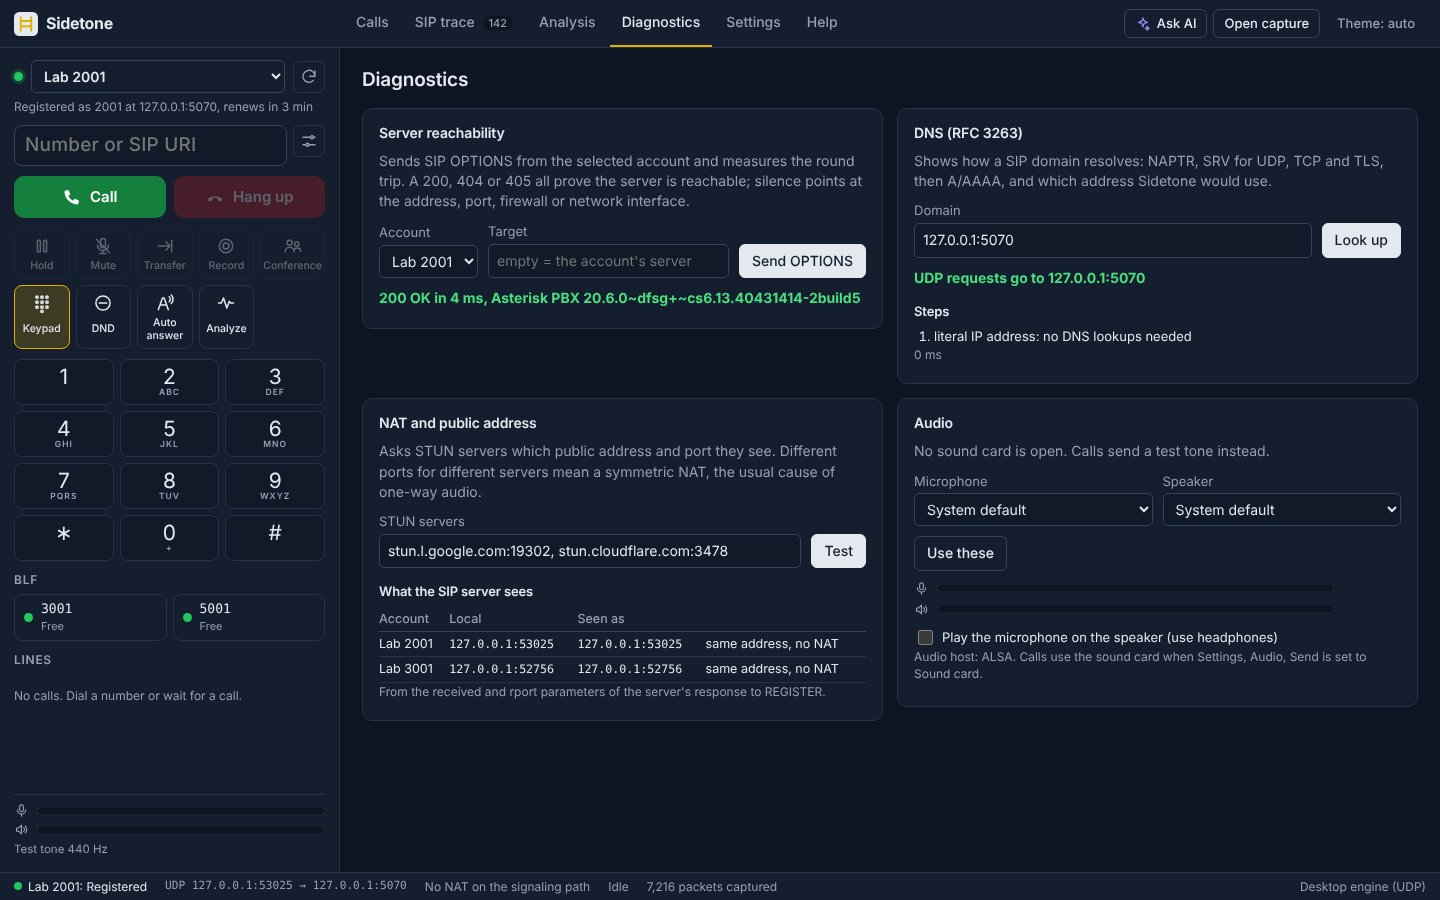
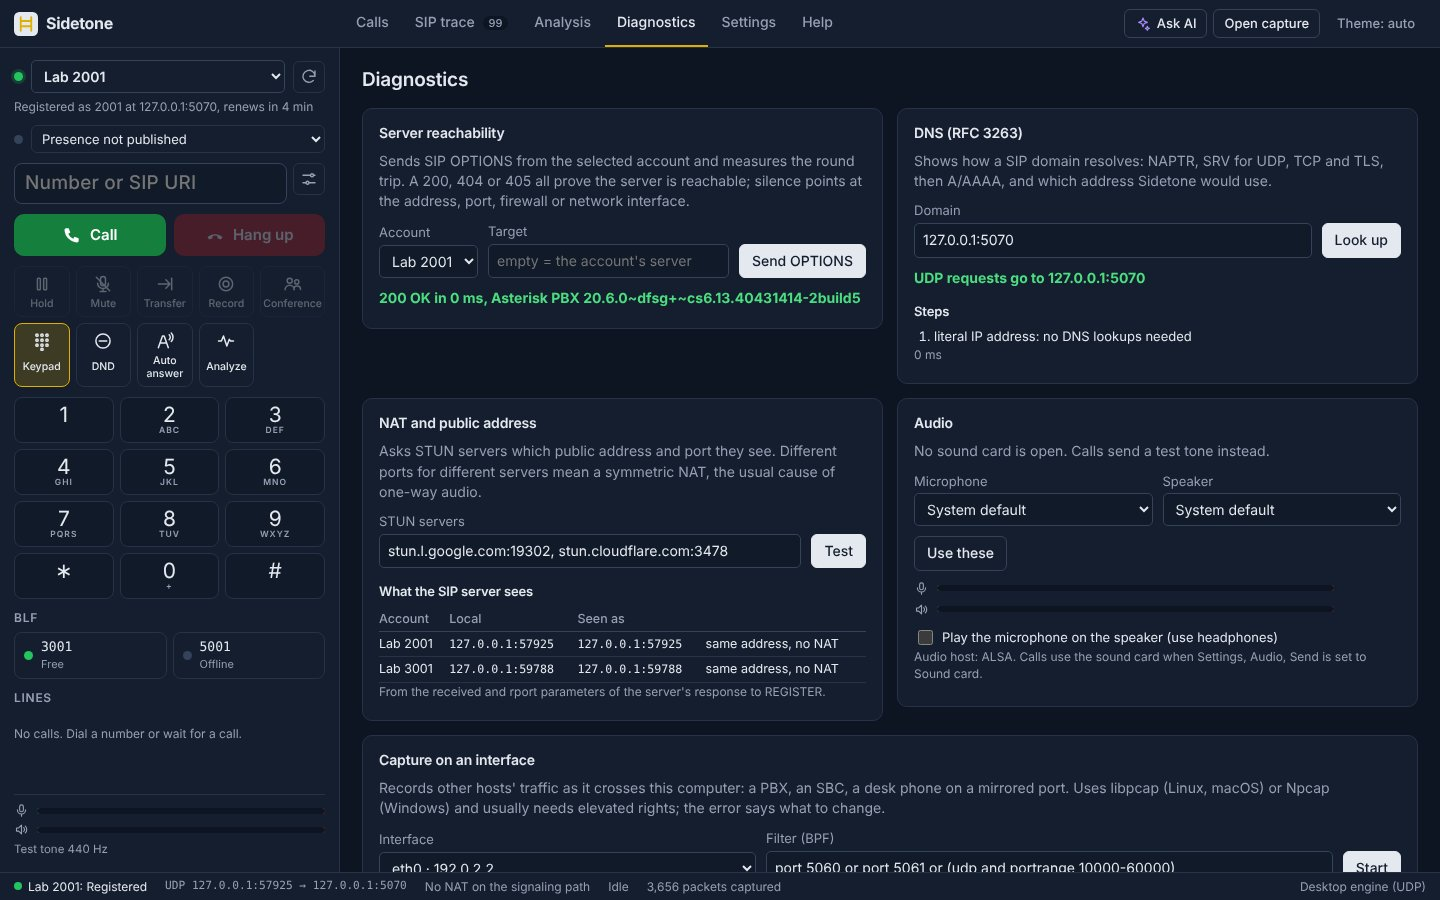
README and help for TCP/TLS capture, presence, browser lines, wideband Opus, interface capture and DTLS-SRTP; new screenshots; version 0.1.5
Claude-Session: https://claude.ai/code/session_01Jg9himHqUuWDmFeDk21hdv

diff --git a/web/help.js b/web/help.js
@@ -41,6 +41,7 @@ const H = {
         "DNS shows how a domain resolves (NAPTR, SRV, A/AAAA) and which address Sidetone uses.",
         "NAT asks STUN servers which public address they see; different ports for different servers mean a symmetric NAT, the classic cause of one-way audio.",
         "Audio lets you pick the microphone and speaker and play the microphone back to check levels.",
+        "Capture on an interface records other hosts' traffic (a PBX, an SBC, a phone on a mirrored port) with a BPF filter, shows SIP as it passes, and opens the result in Analysis. It needs Npcap on Windows and capture rights on Linux and macOS; the message says what to change.",
       ]],
       ["Common problems", [
         "Registration failed 401/403: check user, authentication user and password. 404: the user does not exist on that domain.",
@@ -100,6 +101,7 @@ const H = {
         "DNS mostra como um domínio é resolvido (NAPTR, SRV, A/AAAA) e qual endereço o Sidetone usa.",
         "NAT pergunta a servidores STUN qual endereço público eles veem; portas diferentes para servidores diferentes indicam NAT simétrico, a causa clássica de áudio de um lado só.",
         "Áudio permite escolher microfone e alto-falante e ouvir o próprio microfone para conferir os níveis.",
+        "Captura numa interface grava o tráfego de outros equipamentos (um PABX, um SBC, um telefone numa porta espelhada) com filtro BPF, mostra o SIP enquanto passa e abre o resultado na Análise. Precisa do Npcap no Windows e de permissão de captura no Linux e no macOS; a mensagem diz o que mudar.",
       ]],
       ["Problemas comuns", [
         "Falha no registro 401/403: confira usuário, usuário de autenticação e senha. 404: o usuário não existe nesse domínio.",
@@ -159,6 +161,7 @@ const H = {
         "DNS muestra cómo se resuelve un dominio (NAPTR, SRV, A/AAAA) y qué dirección usa Sidetone.",
         "NAT pregunta a servidores STUN qué dirección pública ven; puertos distintos para servidores distintos indican NAT simétrico, la causa clásica del audio en un solo sentido.",
         "Audio permite elegir micrófono y altavoz y escuchar tu micrófono para comprobar niveles.",
+        "Captura en una interfaz graba el tráfico de otros equipos (una centralita, un SBC, un teléfono en un puerto espejo) con un filtro BPF, muestra el SIP mientras pasa y abre el resultado en Análisis. Necesita Npcap en Windows y permisos de captura en Linux y macOS; el mensaje indica qué cambiar.",
       ]],
       ["Problemas frecuentes", [
         "Registro fallido 401/403: revisa usuario, usuario de autenticación y contraseña. 404: el usuario no existe en ese dominio.",
@@ -218,6 +221,7 @@ const H = {
         "DNS zeigt, wie eine Domain aufgelöst wird (NAPTR, SRV, A/AAAA) und welche Adresse Sidetone nutzt.",
         "NAT fragt STUN-Server nach der öffentlichen Adresse; unterschiedliche Ports je Server bedeuten symmetrisches NAT, die klassische Ursache für einseitiges Audio.",
         "Audio wählt Mikrofon und Lautsprecher und spielt das Mikrofon zur Pegelkontrolle ab.",
+        "Mitschnitt auf einer Schnittstelle zeichnet den Verkehr anderer Geräte auf (TK-Anlage, SBC, ein Telefon an einem gespiegelten Port), mit BPF-Filter, zeigt SIP live und öffnet das Ergebnis in der Analyse. Braucht Npcap unter Windows und Mitschnittrechte unter Linux und macOS; die Meldung sagt, was zu ändern ist.",
       ]],
       ["Häufige Probleme", [
         "Registrierung fehlgeschlagen 401/403: Benutzer, Authentifizierungsbenutzer und Passwort prüfen. 404: den Benutzer gibt es in dieser Domain nicht.",

diff --git a/README.md b/README.md
@@ -118,7 +118,7 @@ are in the dark theme (the Theme button, or your system setting).
     <td width="50%" valign="top">
       <img src="docs/images/sidetone-settings.jpg" alt="Account settings on the Media tab: codecs in order of preference with Opus, PCMU and PCMA ticked, SRTP media encryption set to Optional, packet time and offered direction, and tabs for Account, Server and registration, Network, Media, DTMF, Advanced SIP, Headers and BLF" width="100%">
       <br>
-      <sub>Per-account media: Opus and G.711 in your order, SRTP off, optional or required.</sub>
+      <sub>Per-account media: Opus and G.711 in your order, SRTP off, optional or required, with SDES or DTLS-SRTP keys.</sub>
       <h3>Every knob a desk phone has, and a preview</h3>
       Per account: UDP, TCP or TLS, outbound proxy, expiry and retry, keepalives, local IP and port, rport, symmetric RTP, RTP ports, DSCP, SDP address override, T1, codec order (Opus, PCMU, PCMA), SRTP, ptime, DTMF mode and payload type, session timers, <code>user=phone</code>, compact headers, PRACK, GRUU, long Contact, extra headers, BLF extensions, and a preview of the INVITE they produce. Some exist to reproduce a broken client on purpose, like skipping the ACK.
     </td>
@@ -127,7 +127,7 @@ are in the dark theme (the Theme button, or your system setting).
       <br>
       <sub>Reachability, DNS, NAT and audio checks in one place.</sub>
       <h3>Diagnostics before the call</h3>
-      OPTIONS ping with round trip and server agent, RFC 3263 lookups (NAPTR, SRV for UDP, TCP and TLS, A/AAAA), STUN against two servers to spot a symmetric NAT, the address each registrar sees you from, and a microphone and speaker test with level meters.
+      OPTIONS ping with round trip and server agent, RFC 3263 lookups (NAPTR, SRV for UDP, TCP and TLS, A/AAAA), STUN against two servers to spot a symmetric NAT, the address each registrar sees you from, a microphone and speaker test with level meters, and a live capture on any network interface for traffic that is not the phone's own.
     </td>
   </tr>
   <tr>
@@ -143,7 +143,7 @@ are in the dark theme (the Theme button, or your system setting).
       <br>
       <sub>No install: the browser version on GitHub Pages, calling over WebRTC.</sub>
       <h3>The same phone in the browser</h3>
-      On GitHub Pages Sidetone talks SIP over WebSocket (RFC 7118) with WebRTC audio, so it reaches any PBX or SBC with a WSS listener. One line at a time with hold, mute, blind transfer and DTMF; analysis runs in the page through WebAssembly.
+      On GitHub Pages Sidetone talks SIP over WebSocket (RFC 7118) with WebRTC audio, so it reaches any PBX or SBC with a WSS listener. Several lines with automatic hold and call waiting, mute, blind and attended transfer, a three-way conference mixed with Web Audio, and DTMF; analysis runs in the page through WebAssembly.
     </td>
   </tr>
   <tr>
@@ -171,13 +171,15 @@ are in the dark theme (the Theme button, or your system setting).
     </td>
     <td width="33%" valign="top">
       <h4>Captures in and out</h4>
-      Read: pcap and pcapng (Ethernet, VLAN, Linux cooked v1 and v2, raw IP, loopback), IPv4 and IPv6, SIP over UDP and TCP, TLS key logs from pcapng.
+      Capture live on any network interface (libpcap or Npcap, loaded at run time) with a BPF filter, watch SIP go by, then analyze or save it.
       <br><br>
-      Write: annotated pcapng with findings as packet comments and TLS keys kept; redacted pcapng for sharing; one call or the whole capture; ladder as SVG; report as JSON; stereo WAV of each test call (left sent, right received).
+      Read: pcap and pcapng (Ethernet, VLAN, Linux cooked v1 and v2, raw IP, loopback, Wireshark exported PDUs), IPv4 and IPv6, SIP over UDP, TCP and decrypted TLS, TLS key logs from pcapng.
+      <br><br>
+      Write: the phone's own traffic as it travelled (SIP over TCP as TCP, over TLS as decrypted exported PDUs, like Wireshark's Export PDUs); annotated pcapng with findings as packet comments and TLS keys kept; redacted pcapng for sharing; one call or the whole capture; ladder as SVG; report as JSON; stereo WAV of each test call (left sent, right received).
     </td>
     <td width="33%" valign="top">
       <h4>The phone</h4>
-      Several accounts with re-registration at 90% of the expiry and retry on failure &middot; SIP over UDP, TCP and TLS (certificate check on or off per account) &middot; SRTP with SDES keys (AES_CM_128_HMAC_SHA1_80 and _32, optional or mandatory) &middot; digest auth (MD5, qop auth) &middot; several lines with automatic hold &middot; hold and resume by re-INVITE &middot; mute &middot; blind transfer (REFER) and attended transfer (REFER with Replaces), and being transferred &middot; three-way conference mixed locally &middot; BLF (SUBSCRIBE to the dialog event package) showing idle, ringing and busy &middot; DTMF as RFC 4733, SIP INFO or inband tones, and received digits shown &middot; DND and auto answer with the reject code you choose &middot; intercom answer (Call-Info, Alert-Info) &middot; PRACK, UPDATE, session timers, late offer &middot; ringback and ring tones &middot; per-call WAV recording &middot; DNS SRV and outbound proxy &middot; direct, unregistered calls to any SIP URI (anonymous From, for testing URI dialing) &middot; dial strings with headers and post-answer DTMF (<code>600?Subject=x,,123#</code>) &middot; G.711 &mu;-law and A-law, and Opus (narrowband, in-band FEC) &middot; interface in English, Portuguese (Brazil), Spanish and German, with built-in help &middot; WebRTC with Opus, ICE and DTLS-SRTP in the browser
+      Several accounts with re-registration at 90% of the expiry and retry on failure &middot; SIP over UDP, TCP and TLS (certificate check on or off per account) &middot; SRTP with SDES keys or DTLS-SRTP (certificate checked against a=fingerprint), AES_CM_128_HMAC_SHA1_80 and _32 and AEAD_AES_128/256_GCM, optional or mandatory &middot; digest auth (MD5, qop auth) &middot; several lines with automatic hold &middot; hold and resume by re-INVITE &middot; mute &middot; blind transfer (REFER) and attended transfer (REFER with Replaces), and being transferred &middot; three-way conference mixed locally &middot; BLF (SUBSCRIBE to the dialog event package) showing idle, ringing and busy, with presence (PIDF) when the server offers it, and your own presence published with PUBLISH &middot; DTMF as RFC 4733, SIP INFO or inband tones, and received digits shown &middot; DND and auto answer with the reject code you choose &middot; intercom answer (Call-Info, Alert-Info) &middot; PRACK, UPDATE, session timers, late offer &middot; ringback and ring tones &middot; per-call WAV recording &middot; DNS SRV and outbound proxy &middot; direct, unregistered calls to any SIP URI (anonymous From, for testing URI dialing) &middot; dial strings with headers and post-answer DTMF (<code>600?Subject=x,,123#</code>) &middot; G.711 &mu;-law and A-law, and wideband Opus (16 kHz audio path, in-band FEC) &middot; interface in English, Portuguese (Brazil), Spanish and German, with built-in help &middot; WebRTC with Opus, ICE and DTLS-SRTP in the browser, with several lines, attended transfer and conference
     </td>
   </tr>
   <tr>
@@ -301,17 +303,16 @@ cargo test --workspace --exclude sidetone-desktop
 
 A recent stable Rust (CI uses stable). The desktop app builds with
 `npx @tauri-apps/cli@2 build` in `app/`; on Linux it needs WebKitGTK 4.1.
-For a local PBX to call: `lab/run-asterisk.sh` (Asterisk with UDP,
-WebSocket and WebRTC endpoints, echo, busy and unallocated numbers).
+For a local PBX to call: `lab/run-asterisk.sh` (Asterisk on UDP, TCP, TLS
+and WebSocket, with SDES and DTLS-SRTP users, a WebRTC user, BLF and presence
+hints, echo, busy and unallocated numbers).
 
 > [!IMPORTANT]
 > **Status: alpha.** The analyzer, the desktop and browser phones, test
 > suites and the MCP server work and are covered by tests and a live PBX
-> in CI, but Sidetone is young. Not yet there: wideband audio in the native
-> phone (Opus runs narrowband), presence beyond BLF, DTLS-SRTP in the native
-> phone, and passive capture of other hosts' traffic. SIP sent over TCP/TLS by the native phone is shown in
-> the trace but written to the capture as UDP. The browser phone handles one call at a
-> time. MOS is an estimate from one capture point.
+> in CI, but Sidetone is young: expect rough edges with PBXs and SBCs the
+> lab does not cover, and please report them. MOS is an estimate from one
+> capture point, as any single-point measurement is.
 
 ## Help wanted
 
@@ -329,15 +330,15 @@ WebSocket and WebRTC endpoints, echo, busy and unallocated numbers).
 
 Each version gets a release with installers for every platform: take the
 [latest release](https://github.com/igtoth/sidetone/releases/latest), or
-pick a file below (version 0.1.4).
+pick a file below (version 0.1.5).
 
 | Platform | Desktop app | Command line |
 |---|---|---|
-| Windows 10/11 (x64) | [Installer (.exe)](https://github.com/igtoth/sidetone/releases/download/v0.1.4/Sidetone_0.1.4_x64-setup.exe) &middot; [MSI](https://github.com/igtoth/sidetone/releases/download/v0.1.4/Sidetone_0.1.4_x64_en-US.msi) | [sidetone-v0.1.4-x86_64-pc-windows-msvc.zip](https://github.com/igtoth/sidetone/releases/download/v0.1.4/sidetone-v0.1.4-x86_64-pc-windows-msvc.zip) |
-| macOS 11+ (Apple silicon) | [Sidetone_0.1.4_aarch64.dmg](https://github.com/igtoth/sidetone/releases/download/v0.1.4/Sidetone_0.1.4_aarch64.dmg) | [sidetone-v0.1.4-aarch64-apple-darwin.tar.gz](https://github.com/igtoth/sidetone/releases/download/v0.1.4/sidetone-v0.1.4-aarch64-apple-darwin.tar.gz) |
-| macOS 11+ (Intel) | [Sidetone_0.1.4_x64.dmg](https://github.com/igtoth/sidetone/releases/download/v0.1.4/Sidetone_0.1.4_x64.dmg) | [sidetone-v0.1.4-x86_64-apple-darwin.tar.gz](https://github.com/igtoth/sidetone/releases/download/v0.1.4/sidetone-v0.1.4-x86_64-apple-darwin.tar.gz) |
-| Linux (x86_64) | [AppImage](https://github.com/igtoth/sidetone/releases/download/v0.1.4/Sidetone_0.1.4_amd64.AppImage) &middot; [.deb](https://github.com/igtoth/sidetone/releases/download/v0.1.4/Sidetone_0.1.4_amd64.deb) &middot; [.rpm](https://github.com/igtoth/sidetone/releases/download/v0.1.4/Sidetone-0.1.4-1.x86_64.rpm) | [sidetone-v0.1.4-x86_64-unknown-linux-gnu.tar.gz](https://github.com/igtoth/sidetone/releases/download/v0.1.4/sidetone-v0.1.4-x86_64-unknown-linux-gnu.tar.gz) |
-| Linux (arm64) | | [sidetone-v0.1.4-aarch64-unknown-linux-gnu.tar.gz](https://github.com/igtoth/sidetone/releases/download/v0.1.4/sidetone-v0.1.4-aarch64-unknown-linux-gnu.tar.gz) |
+| Windows 10/11 (x64) | [Installer (.exe)](https://github.com/igtoth/sidetone/releases/download/v0.1.5/Sidetone_0.1.5_x64-setup.exe) &middot; [MSI](https://github.com/igtoth/sidetone/releases/download/v0.1.5/Sidetone_0.1.5_x64_en-US.msi) | [sidetone-v0.1.5-x86_64-pc-windows-msvc.zip](https://github.com/igtoth/sidetone/releases/download/v0.1.5/sidetone-v0.1.5-x86_64-pc-windows-msvc.zip) |
+| macOS 11+ (Apple silicon) | [Sidetone_0.1.5_aarch64.dmg](https://github.com/igtoth/sidetone/releases/download/v0.1.5/Sidetone_0.1.5_aarch64.dmg) | [sidetone-v0.1.5-aarch64-apple-darwin.tar.gz](https://github.com/igtoth/sidetone/releases/download/v0.1.5/sidetone-v0.1.5-aarch64-apple-darwin.tar.gz) |
+| macOS 11+ (Intel) | [Sidetone_0.1.5_x64.dmg](https://github.com/igtoth/sidetone/releases/download/v0.1.5/Sidetone_0.1.5_x64.dmg) | [sidetone-v0.1.5-x86_64-apple-darwin.tar.gz](https://github.com/igtoth/sidetone/releases/download/v0.1.5/sidetone-v0.1.5-x86_64-apple-darwin.tar.gz) |
+| Linux (x86_64) | [AppImage](https://github.com/igtoth/sidetone/releases/download/v0.1.5/Sidetone_0.1.5_amd64.AppImage) &middot; [.deb](https://github.com/igtoth/sidetone/releases/download/v0.1.5/Sidetone_0.1.5_amd64.deb) &middot; [.rpm](https://github.com/igtoth/sidetone/releases/download/v0.1.5/Sidetone-0.1.5-1.x86_64.rpm) | [sidetone-v0.1.5-x86_64-unknown-linux-gnu.tar.gz](https://github.com/igtoth/sidetone/releases/download/v0.1.5/sidetone-v0.1.5-x86_64-unknown-linux-gnu.tar.gz) |
+| Linux (arm64) | | [sidetone-v0.1.5-aarch64-unknown-linux-gnu.tar.gz](https://github.com/igtoth/sidetone/releases/download/v0.1.5/sidetone-v0.1.5-aarch64-unknown-linux-gnu.tar.gz) |
 | Web | no download: [open it in the browser](https://igtoth.github.io/sidetone/) | |
 
 ### Install
@@ -352,22 +353,30 @@ not signed yet, so the first time right-click it and choose Open (or run
 `xattr -dr com.apple.quarantine /Applications/Sidetone.app`). macOS asks
 for microphone access on the first call.
 
-**Linux.** Debian and Ubuntu: `sudo apt install ./Sidetone_0.1.4_amd64.deb`.
-Fedora and openSUSE: `sudo dnf install ./Sidetone-0.1.4-1.x86_64.rpm`.
-Anywhere else: `chmod +x Sidetone_0.1.4_amd64.AppImage` and run it. The
+**Linux.** Debian and Ubuntu: `sudo apt install ./Sidetone_0.1.5_amd64.deb`.
+Fedora and openSUSE: `sudo dnf install ./Sidetone-0.1.5-1.x86_64.rpm`.
+Anywhere else: `chmod +x Sidetone_0.1.5_amd64.AppImage` and run it. The
 desktop app needs WebKitGTK 4.1 (present on current distributions).
 
 **Command line.** Unpack the archive and put `sidetone` on your `PATH`:
 
 ```sh
-tar xzf sidetone-v0.1.4-x86_64-unknown-linux-gnu.tar.gz
-sudo install sidetone-v0.1.4-x86_64-unknown-linux-gnu/sidetone /usr/local/bin/
+tar xzf sidetone-v0.1.5-x86_64-unknown-linux-gnu.tar.gz
+sudo install sidetone-v0.1.5-x86_64-unknown-linux-gnu/sidetone /usr/local/bin/
 sidetone serve        # the full app in your browser at http://127.0.0.1:8640
 ```
 
 On macOS remove the quarantine flag first
 (`xattr -d com.apple.quarantine sidetone`). The archive also has the
 example test suites.
+
+**Capturing other hosts' traffic** (Diagnostics, Capture on an interface)
+needs a packet capture library and the right to use it. Windows: install
+[Npcap](https://npcap.com/) (Wireshark installs it). macOS: libpcap is built
+in; install Wireshark's ChmodBPF or run as root. Linux: `libpcap` is usually
+installed; give the binary the capability once with
+`sudo setcap cap_net_raw,cap_net_admin=eip /usr/bin/sidetone-desktop` (or
+the `sidetone` CLI), or run it with `sudo`. Everything else works without it.
 
 **From source.** See [Get started](#get-started).
 
